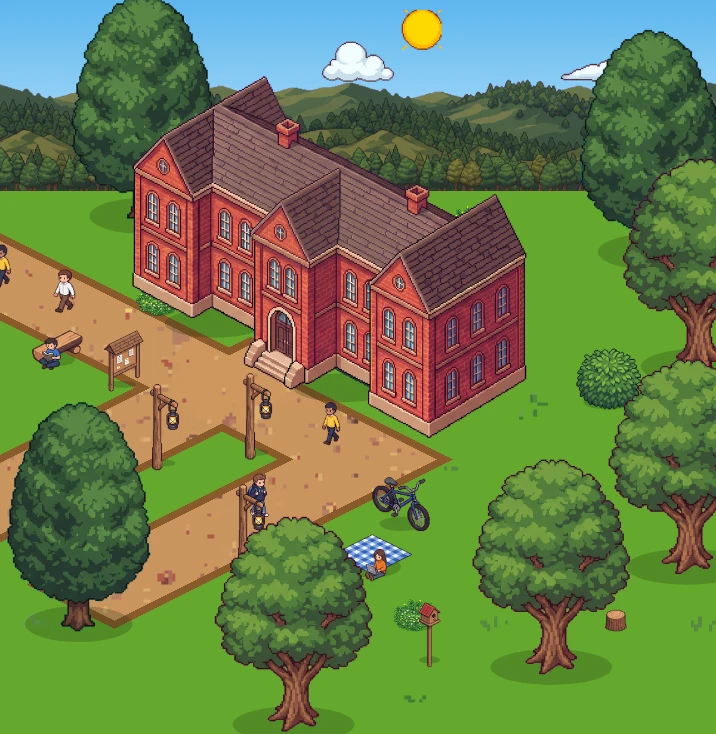
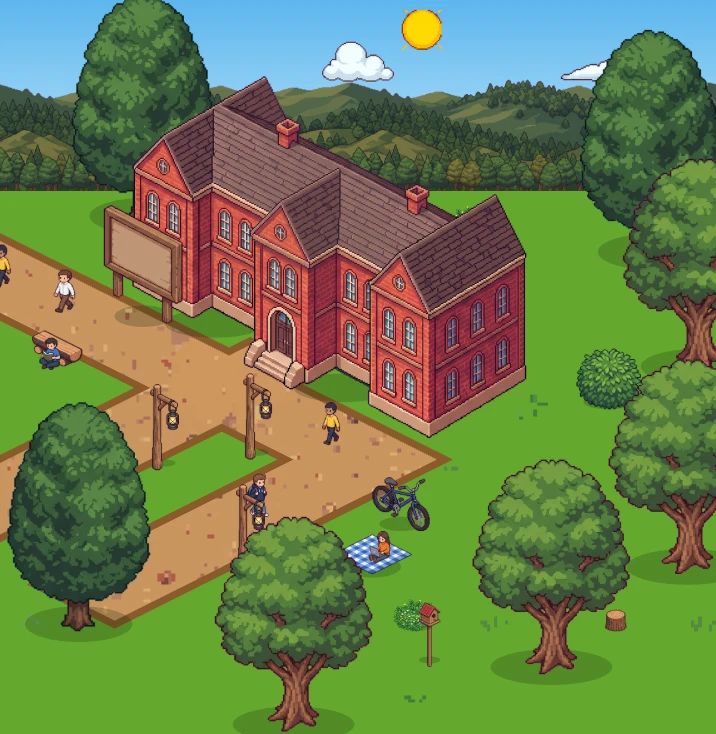
feat: 학교 Lv.3 배경 수정

Changed region(s): [[0.0307, 0.2698, 0.2765, 0.5395], [0.4916, 0.7193, 0.5531, 0.8093]]

diff --git a/frontend/src/data/campusLayouts.ts b/frontend/src/data/campusLayouts.ts
@@ -277,15 +277,19 @@ export const CAMPUS_LAYOUTS: Readonly<Partial<Record<number, CampusLayout>>> = {
       at('tree-oak-1', P(234, 234)), at('tree-oak-2', P(102, 222), { flip: true }), at('tree-oak-1', P(272, 206)), at('tree-oak-1', P(162, 250)),
       at('hedge', iso(faceMid(lv3Hall, 'left'), -18, 0), { flip: true }), at('hedge', iso(faceMid(lv3Hall, 'left'), 18, 0), { flip: true }),
       at('sapling', P(150, 216)), at('sapling', P(256, 182), { flip: true }),
-      // Wooden lanterns, log benches and a notice board line the dirt paths (plan D4: no iron lamps yet).
-      at('notice-board', lv3At(-14, 14)),
+      // The Lv.2 school signboard moves up to stand in front of the extended hall, where a flower patch was
+      // (user request 2026-11-27).
+      // Signs face the way the school does: the board runs along U, parallel to the door face, so it is flipped.
+      // Wooden lanterns and log benches line the dirt paths (plan D4: no iron lamps yet).
+      at('signboard', lv3At(-30, -8), { flip: true, depth: lv3Hall.y + 1 }),
       at('lantern-post', lv3At(14, 30)), at('lantern-post', lv3At(24, 14)), at('lantern-post', lv3At(54, 46)),
-      at('log-bench', lv3At(-30, 16)), at('log-bench', lv3At(28, 58), { flip: true }),
+      at('log-bench', lv3At(-30, 16), { flip: true }), at('log-bench', lv3At(28, 58), { flip: true }),
       at('student-sit-1', lv3At(-30, 18), { shadow: false }),
       // Woods life: a birdhouse, a stump, a picnic and a bicycle.
-      at('birdhouse', P(200, 232)), at('stump', P(252, 222)), at('picnic-mat', lv3At(72, 30)), at('student-sit-2', lv3At(74, 31), { shadow: false }),
+      at('birdhouse', P(200, 232)), at('stump', P(252, 222)), at('picnic-mat', lv3At(72, 30)),
+      // She sits on the mat, drawn over it (user request 2026-11-27).
+      at('student-sit-2', lv3At(70, 26), { shadow: false, depth: lv3At(72, 30)[1] + 1 }),
       at('bicycle', lv3At(64, 14)),
-      at('flowers-1', iso(faceMid(lv3Hall, 'left'), -30, 4)),
       ...[lv3At(0, 40), lv3At(2, 82), lv3At(-60, 2), lv3At(-44, 0), lv3At(40, 30), lv3At(38, 62), lv3At(30, 0)]
         .map((p, i) => at(WALKERS[i % 4], p, { flip: i % 2 === 1, shadow: false })),
       ...scatter([P(70, 170), P(196, 222), P(150, 226), P(250, 160), P(212, 112)], 2),

diff --git a/frontend/src/components/VisitingScreen1Phone.tsx b/frontend/src/components/VisitingScreen1Phone.tsx
@@ -16,7 +16,7 @@ import { CAMPUS_ACTION_LABEL, type CampusActionKind, type CampusAttacks } from '
 import { VisitAttackBar } from './VisitAttackBar';
 import { TapFloatingNumbers, useTapFloatingNumbers } from './TapFloatingNumbers';
 import { useReducedMotion } from './CampusAmbience';
-import { wobbleCampusAttack } from '../utils/campusWobble';
+import { wobbleBuildings, wobbleCampusAttack } from '../utils/campusWobble';
 
 interface VisitingScreen1PhoneProps {
   /** Visited school ID from the map (M2). Mock rows, or the server's school detail in API mode (SCRUM-163). */
@@ -90,8 +90,11 @@ export function VisitCampusScreen({
     if (actionKind === 'assist') soundManager.playAssistSound(outcome.isCrit);
     else soundManager.playAttackSound(outcome.isCrit);
     if (typeof navigator !== 'undefined' && navigator.vibrate) navigator.vibrate(outcome.isCrit ? 25 : 12);
-    // Attack only: the buildings shake left and right and the surroundings the opposite way. Assists stay still.
-    if (actionKind === 'attack') wobbleCampusAttack(event.currentTarget.closest('[data-campus-stage]'), reducedMotion);
+    // Attack: the buildings shake left and right and the surroundings the opposite way.
+    // Assist: only the buildings squash and stretch, as on a campus click.
+    const stage = event.currentTarget.closest('[data-campus-stage]');
+    if (actionKind === 'attack') wobbleCampusAttack(stage, reducedMotion);
+    else wobbleBuildings(stage, reducedMotion);
     const rect = event.currentTarget.getBoundingClientRect();
     // A keyboard press has no pointer position (detail 0): show it in the middle.
     const x = event.detail === 0 ? rect.width / 2 : event.clientX - rect.left;

diff --git a/frontend/tests/campusScene.test.ts b/frontend/tests/campusScene.test.ts
@@ -455,7 +455,12 @@ test('Lv.3: lanterns, log benches and a notice board line the dirt paths', () =>
   const layout = CAMPUS_LAYOUTS[3]!;
   assert.ok(layout.items.filter((i) => i.asset === 'lantern-post').length >= 3, 'Lv.3 lantern posts');
   assert.ok(layout.items.filter((i) => i.asset === 'log-bench').length >= 2, 'Lv.3 log benches');
-  for (const asset of ['notice-board', 'birdhouse', 'bicycle', 'picnic-mat'] as const) assert.ok(layout.items.some((i) => i.asset === asset), `Lv.3 has ${asset}`);
+  for (const asset of ['signboard', 'birdhouse', 'bicycle', 'picnic-mat'] as const) assert.ok(layout.items.some((i) => i.asset === asset), `Lv.3 has ${asset}`);
+  // One school sign per level: Lv.3 keeps the Lv.2 signboard, standing in front of the hall and drawn over it.
+  const signs = layout.items.filter((i) => i.asset === 'signboard' || i.asset === 'notice-board');
+  assert.deepEqual(signs.map((i) => i.asset), ['signboard'], 'Lv.3 has exactly one sign, the Lv.2 signboard');
+  assert.ok((signs[0].depth ?? signs[0].y) > layout.items[0].y, 'the signboard is drawn in front of the hall');
+  assert.equal(signs[0].flip, true, 'signs face the way the school does: the board runs parallel to the door face');
   assert.ok(layout.items.filter((i) => i.asset.startsWith('student-')).length >= 6, 'Lv.3 has more students than Lv.2');
   // Every lantern stands within reach of a path, so it reads as path lighting.
   const paths = layout.terrain.filter((t) => t.texture === 'tex-dirt');
